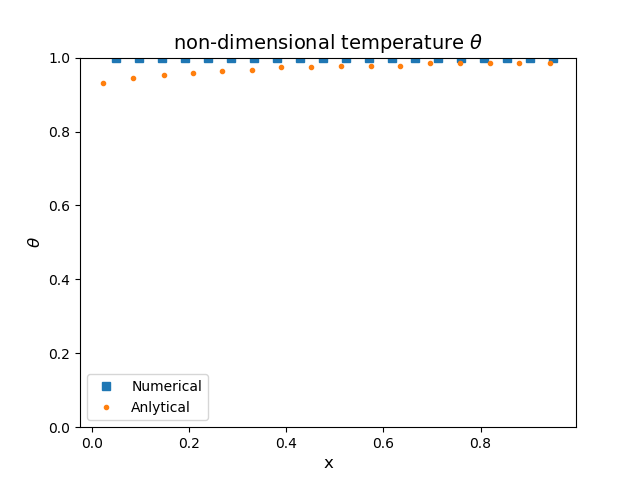
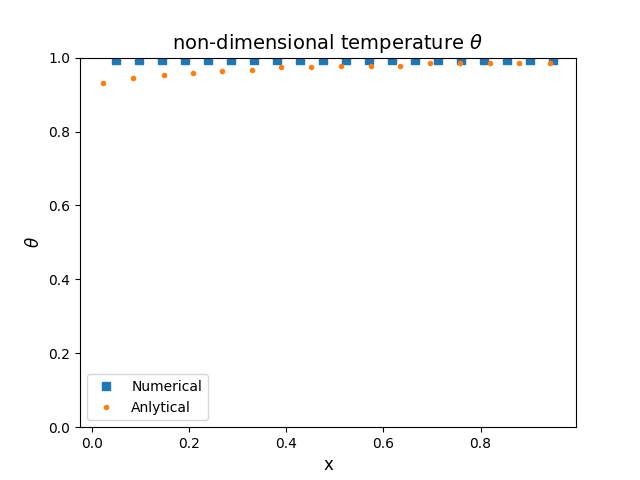
[MOD] : corrected setup for flowOverHeatedPlate tutorial

diff --git a/tutorials/flowOverHeatedPlate/analytical.py b/tutorials/flowOverHeatedPlate/analytical.py
@@ -4,7 +4,7 @@ import pandas as pd
 import numpy as np
 import matplotlib.pyplot as plt
 from pylab import *
-from pygnuplot import gnuplot, pyplot
+# from pygnuplot import gnuplot, pyplot
 from subprocess import Popen
 from subprocess import call
 from os import path
